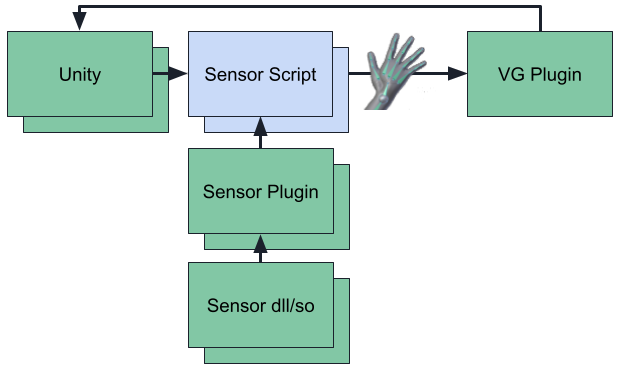
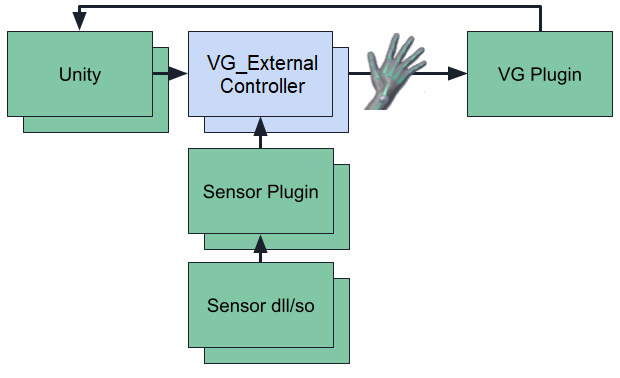
work on external controller documentation

Changed region(s): [[0.3065, 0.1455, 0.521, 0.2619]]

diff --git a/_includes/external_controller.html b/_includes/external_controller.html
@@ -1,0 +1,2 @@
+
+{% include callout.html content="This class represents a child class of VG_ExternalController.<br><br> If you haven't yet, have a short look at [VG_ExternalControllerManager](unity_component_vgexternalcontrollermanager) on the purpose of a VG_ExternalController.<br><br>If you just want to use an external controller in your project, refer to the [AutoSetup](unity_component_myvirtualgrasp.html#autosetup) option." %}

diff --git a/pages/unity/unity_component_vgexternalcontrollermanager.md b/pages/unity/unity_component_vgexternalcontrollermanager.md
@@ -23,7 +23,42 @@ override public void Awake()
 
 VG_ExternalControllerManager.cs is a {% include tooltip.html tooltip="VGPublicScript" text="public script" %} so that is is extendable, for example to add more controllers or functionalities.
 
-It is called external, because - instead of an internal native library - an external source is feeding VG with the input data. In most cases, this external source is a plugin provided by the hardware manufacturer for your engine of choice.
+In most cases, the source is a plugin provided by the hardware manufacturer for your engine of choice.
+
+The VG_ExternalControllerManager is managing different VG_ExternalControllers. 
+<!-- For more background information, please refer to the [Controller](controllers.html) explanation. -->
+We call it **external controllers**, because an external source or plugin is providing VirtualGrasp with the input data in Unity (but external to VirtualGrasp). In contrast to this are **internal controllers** that link the native library directly to VirtualGrasp. Internal controllers are by default not supported for the VirtualGrasp SDK, due to third-party distribution regulations.
+
+Thus, whenever we speak of controllers or sensors in this documentation, we refer to external controllers.
 
 {% include image.html file="knowledge/external_controllers.png" alt="Internal controllers." caption="External controller pipeline." %}
 
+## VG_ExternalController Class
+
+To link together a controller plugin with VG, the VirtualGrasp SDK provides a base class 
+VG_ExternalController together with a few ready-to-use child classes for the following
+controllers:
+
+* [VG_MouseHand](unity_vg_ec_mousehand.html) for Mouse control.
+* [VG_UnityXRHand](unity_vg_ec_unityxrhand.html) for all XR controllers that are supported through [UnityXR](https://docs.unity3d.com/Manual/XR.html).
+* [VG_OculusHand](unity_vg_ec_oculushand.html) for Oculus Finger Tracking which is supported through the Oculus SDK.
+* [VG_MouseHand](unity_vg_ec_leaphand.html) for LeapMotion controller which is supported through the Ultraleap SDK.
+* [VG_GenericHand](unity_vg_ec_generichand.html) as a fallback solution.
+
+While all these classes can serve as tutorials to understand how a VG_ExternalController can be setup, please refer to each particular page for further details on just that particular controller.
+
+<br>
+
+{% include youtube.html id="hNa2o7ngctU" caption="Switching between different external controllers using the VGs AutoSetup functionality." %}
+
+## Modifying or Writing a Controller
+
+The following we describe technical considerations that you may have when you modify or write your own VG_ExternalController. You may especially end up here if you try to use your own, customized hand model for your application. Note that "SDK" in this case refers to the particular controller plugin (such as Oculus SDK, Ultraleap SDK, etc.).
+
+### Initialization and Mapping
+
+Each VG_ExternalController has to include a VG_ExternalControllerMapping that maps the bone indices provided by the SDK to VirtualGrasp. The VG_ExternalControllerMapping includes variables for 16 bones (1 wrist + 5 * 3 finger bones). The VG_ExternalControllerMapping should be initialized in the VG_ExternalController Initialization function.
+
+### Computation
+
+### Coordinate-Frame Corrections

diff --git a/pages/unity/external_controllers/unity_vg_ec_oculushand.md b/pages/unity/external_controllers/unity_vg_ec_oculushand.md
@@ -1,0 +1,33 @@
+---
+title: VG_EC_OculusHand controller
+keywords: external-controller
+sidebar: main_sidebar
+permalink: unity_vg_ec_oculushand.html
+folder: mydoc/external_controllers
+---
+
+{% include external_controller.html %}
+
+## Description 
+
+This is an external controller class that supports the Oculus Finger Tracking controller as an external controller.
+
+The following requirements have to be met to be able to enable the #define USE_OCULUS_CONTROLLER in the VG_EC_OculusHand.cs file and use the controller:
+ * You have the [Oculus SDK](https://www.oculus.com/setup/) installed on your computer.
+ * You have the [Oculus Integration Plugin](https://developer.oculus.com/downloads/package/unity-integration/) imported into your Unity project.
+ * You have the same Oculus Integration plugin version as the one on your headset AND Oculus App.
+ * You have setup the AndroidManifest.xml properly, i.e. they need to include<br>
+ 		\<uses-permission android:name="com.oculus.permission.HAND_TRACKING" /\><br>
+ 		\<uses-feature android:name="oculus.software.handtracking" android:required="false" /\>
+
+After this, use the "OCULUS_FT" option to [AutoSetup](unity_component_myvirtualgrasp.html#autosetup) your VG configuration.
+ 
+## Functionality
+
+### Hand Poses
+All finger bones are mapped.
+
+Will be controlled through OVR controller system, such as OVRPlugin.Skeleton.
+
+### Grab Signals
+will be controlled through the finger configuration (i.e. their state of bending).

diff --git a/pages/unity/external_controllers/unity_vg_ec_leaphand.md b/pages/unity/external_controllers/unity_vg_ec_leaphand.md
@@ -1,0 +1,29 @@
+---
+title: VG_EC_LeapHand controller
+keywords: external-controller
+sidebar: main_sidebar
+permalink: unity_vg_ec_leaphand.html
+folder: mydoc/external_controllers
+---
+
+{% include external_controller.html %}
+
+## Description 
+
+This is an external controller class that supports the LeapMotion controller as an external controller.
+Please refer to [External Controllers](unity_component_vgexternalcontrollermanager.html) for the definition of an external controller for VG.
+
+The following requirements have to be met to be able to enable the #define USE_LEAP_CONTROLLER in the VG_EC_LeapHand.cs file and use the controller:
+ * You have a [Core Assets](https://developer.leapmotion.com/releases) plugin imported into your Unity project.
+ * Note that Core Assets > 4.4.0 are for LeapMotion SDK 4, older are for LeapMotion SDK 3 (lastest CA 4.3.4).
+ * You have the corresponding [LeapMotion SDK](https://developer.leapmotion.com/sdk-leap-motion-controller/) installed on your computer.
+ 
+ After this, use the "LEAP_EXT" option to [AutoSetup](unity_component_myvirtualgrasp.html#autosetup) your VG configuration.
+ 
+### Hand Poses
+All finger bones are mapped.
+
+Will be controlled through Leap controller system, such as Leap.Fingers.Bones.
+
+### Grab Signals
+Will be controlled through Leap controller system, such as Leap.Hand.GrabStrength.

diff --git a/pages/unity/external_controllers/unity_vg_ec_unityxrhand.md b/pages/unity/external_controllers/unity_vg_ec_unityxrhand.md
@@ -1,0 +1,33 @@
+---
+title: VG_EC_UnityXRHand controller
+keywords: external-controller
+sidebar: main_sidebar
+permalink: unity_vg_ec_unityxrhand.html
+folder: mydoc/external_controllers
+---
+
+{% include external_controller.html %}
+
+## Description 
+
+This is an external controller class that supports a [UnityXR](https://docs.unity3d.com/Manual/XR.html) controller as an external controller.
+ 
+The following requirements have to be met to be able to enable the #define USE_LEAP_CONTROLLER above and use the controller:
+ * You have the Unity XR Management package installed into your Unity project.
+
+After this, use the "QUEST" option to [AutoSetup](unity_component_myvirtualgrasp.html#autosetup) your VG configuration.
+
+{% include note.html content="It is called QUEST since we have mainly tested with Oculus integration of UnityXR, and not with other platforms that UnityXR supports." %}
+
+## Functionality
+
+### Hand Poses
+Only the wrists are mapped.
+
+Will be controlled through UnityXR controller system, such as InputDevice.TryGetFeatureValue(CommonUsages.devicePosition).
+
+### Grab Signals
+will be controlled through UnityXR controller system, such as InputDevice.TryGetFeatureValue(CommonUsages.trigger).
+
+### Haptic Signals
+will be controlled through UnityXR controller system, such as InputDevice.SendHapticImpulse().

diff --git a/pages/unity/external_controllers/unity_vg_ec_mousehand.md b/pages/unity/external_controllers/unity_vg_ec_mousehand.md
@@ -1,0 +1,25 @@
+---
+title: VG_EC_MouseHand controller
+keywords: external-controller
+sidebar: main_sidebar
+permalink: unity_vg_ec_mousehand.html
+folder: mydoc/external_controllers
+---
+
+{% include external_controller.html %}
+
+## Description 
+
+This is an external controller class that supports a Mouse controller as an external controller.
+
+There are no requirements to use this controller, so you can use the "MOUSE" option to [AutoSetup](unity_component_myvirtualgrasp.html#autosetup) your VG configuration.
+
+## Functionality
+
+### Hand Poses
+Only the wrists are mapped.
+
+Will be controlled through the Mouse position in your game window, as well as through the scroll wheel (moving the hands in depth).
+
+### Grab Signals
+will be controlled through the Mouse button clicks, left mouse button for left hand, right mouse button for right hand.

diff --git a/pages/unity/external_controllers/unity_vg_ec_generichand.md b/pages/unity/external_controllers/unity_vg_ec_generichand.md
@@ -1,0 +1,13 @@
+---
+title: VG_EC_GenericHand controller
+keywords: external-controller
+sidebar: main_sidebar
+permalink: unity_vg_ec_generichand.html
+folder: mydoc/external_controllers
+---
+
+{% include external_controller.html %}
+
+## Description 
+
+{% include note.html content="We are still working on Documentation for this page. Please stay tuned." %}
